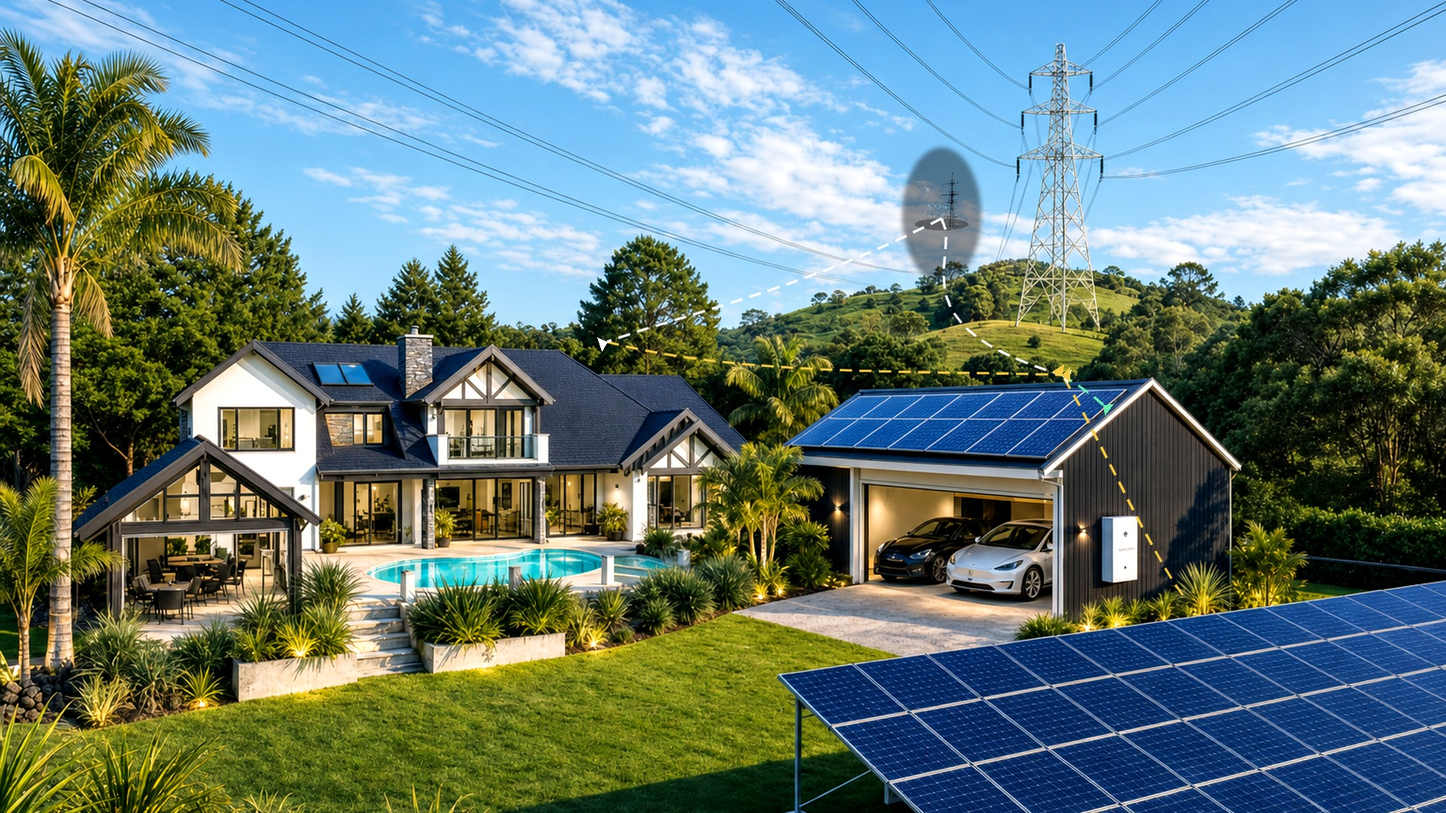
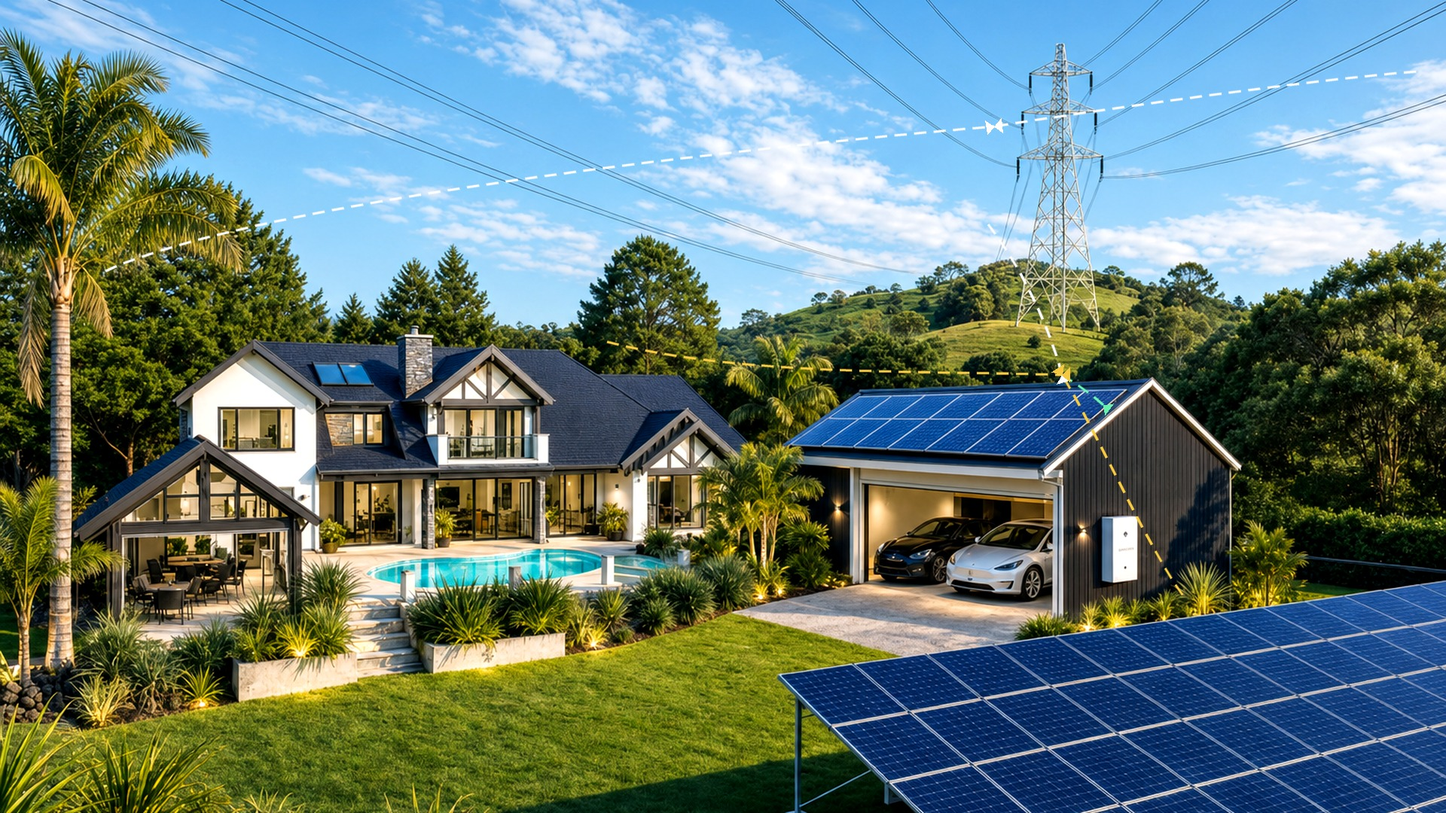
fix(solar-dashboard): anchor flow lines to master right pylon
Remove pasted pylon sprite and ellipse darken mask; route white grid
curves from both horizons to the CGI lattice tower, then to the garage
inverter. Rebuild and sync v4/v5 backgrounds.

diff --git a/home-assistant/solar-dashboard/scripts/build_v4_backgrounds.py b/home-assistant/solar-dashboard/scripts/build_v4_backgrounds.py
@@ -1,5 +1,5 @@
 #!/usr/bin/env python3
-"""Build v4: daytime CGI master + small right-hill pylon + smooth dashed energy curves."""
+"""Build v4/v5: daytime CGI master + smooth dashed energy curves (master pylon only)."""
 
 from __future__ import annotations
 
@@ -11,34 +11,45 @@ from PIL import Image, ImageDraw, ImageEnhance, ImageFilter
 
 ROOT = Path(__file__).resolve().parents[1]
 MASTER = ROOT / "www" / "solar-dashboard" / "backgrounds" / "v4" / "master-clear.png"
-PYLON_REF = ROOT / "www" / "solar-dashboard" / "assets" / "pylon-reference.png"
 OUT = ROOT / "www" / "solar-dashboard" / "backgrounds" / "v4"
 V5_OUT = ROOT / "www" / "solar-dashboard" / "backgrounds" / "v5"
 SIZE = (1920, 1080)
 
-# Right hill — ~1/3 smaller than prior 70×150 paste (target ~46×100)
-PYLON_CX = 1250
-PYLON_ATTACH_Y = 200
-PYLON_BASE_Y = 290
-PYLON_WIDTH_PX = 46
-PYLON_MAX_HEIGHT_PX = 100
+# Master lattice tower on right hill (1920×1080) — cross-arms / wire junction + foot on slope
+PYLON_CX = 1320
+PYLON_ATTACH_Y = 168
+PYLON_BASE_Y = 298
 
 SITE = {
     "pylon": (PYLON_CX, PYLON_ATTACH_Y),
-    "pylon_base": (PYLON_CX, PYLON_BASE_Y),
+    "pylon_base": (PYLON_CX - 8, PYLON_BASE_Y),
     "inverter": (1410, 498),
     "battery_wall": (1385, 468),
     "ev_charger": (1465, 538),
     "array_field": (1570, 790),
     "house_tie": (806, 454),
+    "grid_left": (140, 360),
+    "grid_right": (1880, 95),
 }
 
-# Cubic Bézier control chains (start, cp1, cp2, end) — gentle arcs, no card stubs
+# Cubic Bézier (start, cp1, cp2, end) — converge on right pylon, hub at garage inverter
 FLOW_CURVES: dict[str, tuple[tuple[int, int], ...]] = {
+    "grid_left_to_pylon": (
+        SITE["grid_left"],
+        (360, 260),
+        (1080, 188),
+        SITE["pylon"],
+    ),
+    "grid_right_to_pylon": (
+        SITE["grid_right"],
+        (1720, 108),
+        (1420, 152),
+        SITE["pylon"],
+    ),
     "grid_pylon_to_inverter": (
         SITE["pylon_base"],
-        (1280, 340),
-        (1180, 430),
+        (1360, 360),
+        (1395, 440),
         SITE["inverter"],
     ),
     "solar_to_inverter": (
@@ -53,12 +64,6 @@ FLOW_CURVES: dict[str, tuple[tuple[int, int], ...]] = {
         (1220, 492),
         SITE["inverter"],
     ),
-    "pylon_to_house": (
-        SITE["pylon_base"],
-        (1080, 380),
-        (900, 420),
-        SITE["house_tie"],
-    ),
     "inverter_to_charger": (
         SITE["inverter"],
         (1445, 520),
@@ -68,10 +73,11 @@ FLOW_CURVES: dict[str, tuple[tuple[int, int], ...]] = {
 }
 
 LINE_STYLES = {
+    "grid_left_to_pylon": ("#ffffff", 3),
+    "grid_right_to_pylon": ("#ffffff", 3),
     "grid_pylon_to_inverter": ("#ffffff", 3),
     "solar_to_inverter": ("#f5c842", 3),
     "house_to_inverter": ("#f5c842", 3),
-    "pylon_to_house": ("#ffffff", 3),
     "inverter_to_charger": ("#69f0ae", 3),
 }
 
@@ -99,71 +105,6 @@ def prepare_daytime_master(img: Image.Image) -> Image.Image:
     img = ImageEnhance.Brightness(img).enhance(1.02)
     img = ImageEnhance.Color(img).enhance(1.04)
     return img
-
-
-def _key_sprite_background(img: Image.Image) -> Image.Image:
-    """Make sky/water/grass transparent; keep lattice steel."""
-    out = Image.new("RGBA", img.size, (0, 0, 0, 0))
-    px_in = img.load()
-    px_out = out.load()
-    w, h = img.size
-    for y in range(h):
-        for x in range(w):
-            r, g, b, a = px_in[x, y]
-            lum = (r + g + b) / 3
-            if lum > 175 and abs(r - g) < 35 and b >= g - 10:
-                continue
-            if b > max(r, g) + 12 and b > 95:
-                continue
-            if g > 165 and r > 65 and b < 145:
-                continue
-            nr = int(r * 0.82)
-            ng = int(g * 0.84)
-            nb = int(b * 0.88)
-            px_out[x, y] = (nr, ng, nb, a)
-    return out
-
-
-def prepare_pylon_sprite(ref_path: Path) -> Image.Image:
-    """Extract lattice tower; scale to ~46×100 for right hill."""
-    ref = Image.open(ref_path).convert("RGBA")
-    tower = ref.crop((40, 12, 200, 355))
-    tower = _key_sprite_background(tower)
-    tw, th = tower.size
-    scale = min(PYLON_WIDTH_PX / tw, PYLON_MAX_HEIGHT_PX / th)
-    nw, nh = max(1, int(tw * scale)), max(1, int(th * scale))
-    sprite = tower.resize((nw, nh), Image.Resampling.LANCZOS)
-    rgb = ImageEnhance.Contrast(sprite.convert("RGB")).enhance(1.15)
-    rgb = ImageEnhance.Brightness(rgb).enhance(0.92)
-    sprite = Image.merge("RGBA", (*rgb.split(), sprite.split()[3]))
-    return sprite
-
-
-def _darken_tower_footprint(img: Image.Image) -> None:
-    """Soft ellipse over master full-size tower so smaller sprite reads cleanly."""
-    patch = Image.new("RGBA", (120, 200), (0, 0, 0, 0))
-    draw = ImageDraw.Draw(patch)
-    draw.ellipse((8, 20, 112, 198), fill=(0, 0, 0, 110))
-    patch = patch.filter(ImageFilter.GaussianBlur(3))
-    x = PYLON_CX - patch.width // 2
-    y = PYLON_ATTACH_Y - 24
-    img.alpha_composite(patch, (x, y))
-
-
-def composite_pylon_on_right_hill(base: Image.Image, sprite: Image.Image) -> Image.Image:
-    """Small pylon on right hill at (1250, 200) attach / base_y=290."""
-    img = base.convert("RGBA")
-    _darken_tower_footprint(img)
-    cx, base_y = PYLON_CX, PYLON_BASE_Y
-    x = cx - sprite.width // 2
-    y = base_y - sprite.height + 12
-
-    shadow = Image.new("RGBA", (sprite.width + 32, 22), (0, 0, 0, 0))
-    sdraw = ImageDraw.Draw(shadow)
-    sdraw.ellipse((4, 5, shadow.width - 4, shadow.height - 2), fill=(0, 0, 0, 85))
-    img.alpha_composite(shadow, (x - 16, base_y - 5))
-    img.alpha_composite(sprite, (x, y))
-    return img.convert("RGB")
 
 
 def _bezier_point(t: float, controls: tuple[tuple[float, float], ...]) -> tuple[float, float]:
@@ -279,10 +220,11 @@ def draw_flow_lines(base: Image.Image) -> Image.Image:
         colour, width = LINE_STYLES[route_id]
         smooth_dashed_bezier(layer, controls, colour, width)
 
-    arrow_head(layer, SITE["inverter"], FLOW_CURVES["solar_to_inverter"][-2], "#f5c842")
+    arrow_head(layer, SITE["pylon"], FLOW_CURVES["grid_left_to_pylon"][-2], "#ffffff")
+    arrow_head(layer, SITE["pylon"], FLOW_CURVES["grid_right_to_pylon"][-2], "#ffffff")
     arrow_head(layer, SITE["inverter"], FLOW_CURVES["grid_pylon_to_inverter"][-2], "#ffffff")
+    arrow_head(layer, SITE["inverter"], FLOW_CURVES["solar_to_inverter"][-2], "#f5c842")
     arrow_head(layer, SITE["inverter"], FLOW_CURVES["house_to_inverter"][-2], "#f5c842")
-    arrow_head(layer, SITE["house_tie"], FLOW_CURVES["pylon_to_house"][-2], "#ffffff")
     arrow_head(layer, SITE["ev_charger"], SITE["inverter"], "#69f0ae")
 
     out = base.convert("RGBA")
@@ -290,11 +232,8 @@ def draw_flow_lines(base: Image.Image) -> Image.Image:
     return out.convert("RGB")
 
 
-def draw_overlays(base: Image.Image, pylon_sprite: Image.Image | None, paste_pylon: bool) -> Image.Image:
-    img = base
-    if paste_pylon and pylon_sprite:
-        img = composite_pylon_on_right_hill(base, pylon_sprite)
-    return draw_flow_lines(img)
+def draw_overlays(base: Image.Image) -> Image.Image:
+    return draw_flow_lines(base)
 
 
 def variant(img: Image.Image, mode: str) -> Image.Image:
@@ -319,29 +258,17 @@ def main() -> None:
     parser = argparse.ArgumentParser()
     parser.add_argument("--master", type=Path, default=MASTER)
     parser.add_argument("--out", type=Path, default=OUT)
-    parser.add_argument("--pylon-ref", type=Path, default=PYLON_REF)
-    parser.add_argument(
-        "--no-paste-pylon",
-        action="store_true",
-        help="Skip small sprite (master tower only)",
-    )
     args = parser.parse_args()
     args.out.mkdir(parents=True, exist_ok=True)
-    paste_pylon = not args.no_paste_pylon
 
-    pylon_sprite = prepare_pylon_sprite(args.pylon_ref) if args.pylon_ref.is_file() else None
-    if paste_pylon and pylon_sprite:
-        print(
-            f"pylon sprite {pylon_sprite.size[0]}×{pylon_sprite.size[1]} @ "
-            f"({PYLON_CX}, {PYLON_ATTACH_Y}); smooth bezier flow lines"
-        )
-    elif pylon_sprite:
-        print(f"pylon ref available ({pylon_sprite.size}); flow lines only")
-    else:
-        print(f"warning: no pylon reference at {args.pylon_ref}")
+    print(
+        f"master pylon anchor ({PYLON_CX}, {PYLON_ATTACH_Y}) "
+        f"base ({SITE['pylon_base'][0]}, {SITE['pylon_base'][1]}); "
+        "no sprite paste / ellipse"
+    )
 
     master = prepare_daytime_master(crop_16_9(Image.open(args.master).convert("RGB")))
-    overlaid = draw_overlays(master, pylon_sprite, paste_pylon=paste_pylon)
+    overlaid = draw_overlays(master)
     for name in ("clear", "cloudy", "covered", "very_covered", "night"):
         out = variant(overlaid, name)
         out.save(args.out / f"{name}.jpg", quality=92)

diff --git a/home-assistant/solar-dashboard/docs/power-flow-map.md b/home-assistant/solar-dashboard/docs/power-flow-map.md
@@ -2,7 +2,7 @@
 
 Visual layers on `backgrounds/v4/*.jpg` (built by `scripts/build_v4_backgrounds.py`).
 
-**Style:** Bright daytime CGI master; smooth dashed Bézier curves (white grid, amber solar, green EV). Small lattice **pylon sprite** (~46×100 px) composited on the right hill over the master tower footprint.
+**Style:** Bright daytime CGI master; smooth dashed Bézier curves (white grid, amber solar, green EV). Grid lines anchor to the **master lattice tower** on the right hill (no pasted sprite / ellipse mask).
 
 ## Layer 1 — Transmission (Northpower grid)
 
